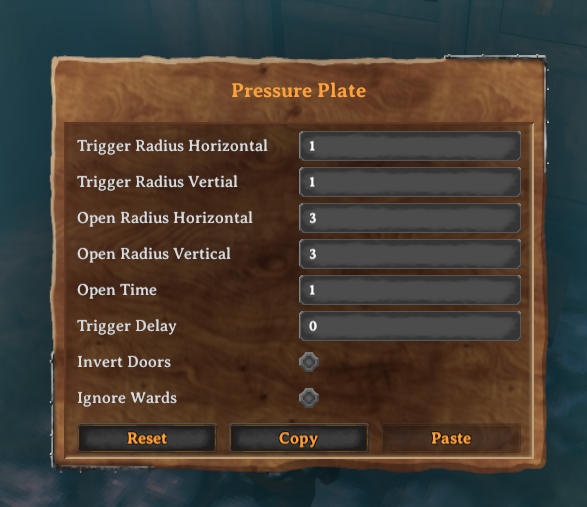
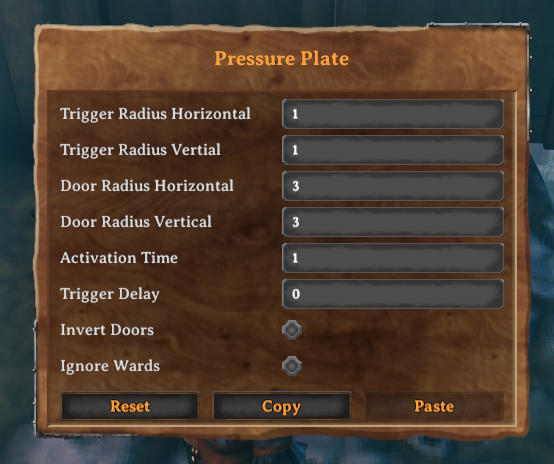
changed text for ui

diff --git a/PressurePlate/Plugin.cs b/PressurePlate/Plugin.cs
@@ -34,9 +34,9 @@ namespace PressurePlate {
             LocalizationManager.Instance.AddToken("$pressure_plate_stone", "Stone Pressure Plate", false);
             LocalizationManager.Instance.AddToken("$pressure_plate_trigger_radius_horizontal", "Trigger Radius Horizontal", false);
             LocalizationManager.Instance.AddToken("$pressure_plate_trigger_radius_vertical", "Trigger Radius Vertial", false);
-            LocalizationManager.Instance.AddToken("$pressure_plate_open_radius_horizontal", "Open Radius Horizontal", false);
-            LocalizationManager.Instance.AddToken("$pressure_plate_open_radius_vertical", "Open Radius Vertical", false);
-            LocalizationManager.Instance.AddToken("$pressure_plate_open_time", "Open Time", false);
+            LocalizationManager.Instance.AddToken("$pressure_plate_open_radius_horizontal", "Door Radius Horizontal", false);
+            LocalizationManager.Instance.AddToken("$pressure_plate_open_radius_vertical", "Door Radius Vertical", false);
+            LocalizationManager.Instance.AddToken("$pressure_plate_open_time", "Activation Time", false);
             LocalizationManager.Instance.AddToken("$pressure_plate_trigger_delay", "Trigger Delay", false);
             LocalizationManager.Instance.AddToken("$pressure_plate_invert", "Invert Doors", false);
             LocalizationManager.Instance.AddToken("$pressure_plate_ignore_wards", "Ignore Wards", false);

diff --git a/PressurePlate/Plate.cs b/PressurePlate/Plate.cs
@@ -98,7 +98,7 @@ namespace PressurePlate {
                 } else {
                     // only close the door if this is the last plate powering it
                     if (door.GetPoweringPlates().Count(i => i != this) > 0) continue;
-
+            
                     door.Close(lastPlayer, this);
                 }
             }
